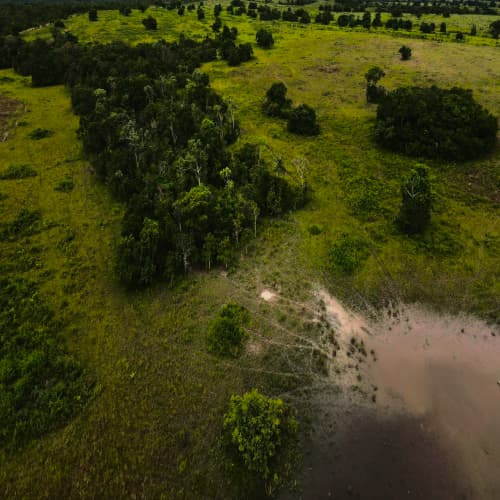
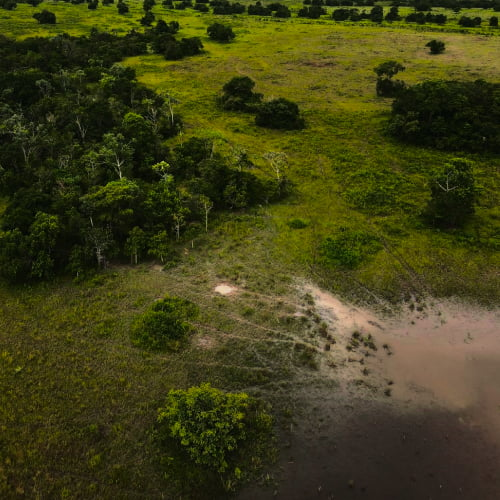
main-mobile-bg e horario funcionamento

diff --git a/index.html b/index.html
@@ -249,7 +249,8 @@
     <div class="contato">
       <div class="contato-texto">
         <h2 class="cor-0 font-1-xl">Entre em contato conosco.</h2>
-        <p class="cor-0 font-1-l">Entre em contato ou nos faça uma visita para descobrir como a nossa empresa pode
+        <p class="cor-0 font-1-l text-contato">Entre em contato ou nos faça uma visita para descobrir como a nossa
+          empresa pode
           ajudá-lo. Estamos à
           disposição
           para contribuir com seus projetos e auxiliar em qualquer situação.
@@ -263,7 +264,7 @@
 
         <ul class="lista-contato cor-0 font-1-s">
           <li class="telefone">
-            <a href="tel:+55659299-1788">(65) 99662-5135</a>
+            <a href="tel:+556599299-1788">(65) 99299-1788</a>
           </li>
           <li class="email">
             <a href="mailto:contato@ramoambiental.com">contato@ramoambiental.com</a>
@@ -271,6 +272,9 @@
           <li class="whats">
             <a href="https://api.whatsapp.com/send?l=pt&phone=5506592991788">Ou clique aqui e converse conosco pelo
               WhatsApp!</a>
+          </li>
+          <li class="horario">
+            <p>08-18h de segeunda à sexta</p>
           </li>
         </ul>
 

diff --git a/css/global/header.css b/css/global/header.css
@@ -22,6 +22,7 @@
   display: block;
   font-weight: bold;
   padding: 5px 10px;
+  border-radius: 4px;
 }
 
 .links-menu a::after {
@@ -66,7 +67,7 @@
     background: var(--cor-p3);
     height: 0px;
     z-index: 1000;
-    transition: 0.3s;
+    transition: 1s;
     overflow-y: hidden;
     visibility: hidden;
   }
@@ -127,5 +128,9 @@
     gap: 0px;
     align-items: center;
     justify-content: space-between;
+  }
+
+  .links-menu a {
+    border-radius: 0px;
   }
 }

diff --git a/css/home/contato.css b/css/home/contato.css
@@ -89,6 +89,15 @@
   background-repeat: no-repeat;
 }
 
+.horario::before {
+  content: '';
+  display: block;
+  width: 20px;
+  height: 20px;
+  background: url(../../img/horario.svg);
+  background-repeat: no-repeat;
+}
+
 .lista-contato li {
   display: flex;
   align-items: center;

diff --git a/css/home/main.css b/css/home/main.css
@@ -12,7 +12,8 @@
 }
 
 .main h1,
-p {
+.main p,
+.main a {
   font-weight: bold;
 }
 
@@ -51,6 +52,6 @@ p {
 
 @media (max-width: 500px) {
   .bg-principal {
-    background-position: center;
+    background-image: url('../../img/fotoMainMobile.jpg');
   }
 }
